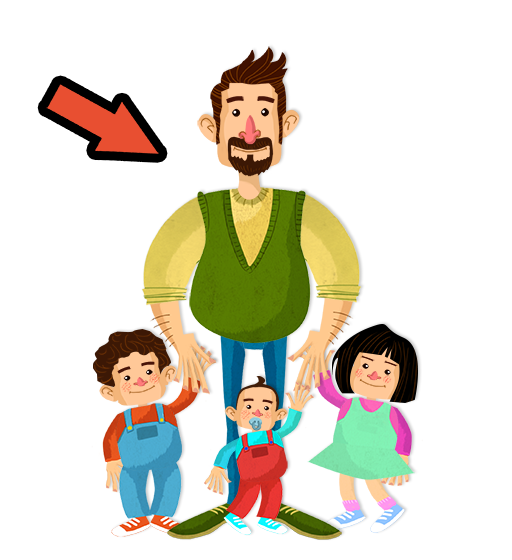
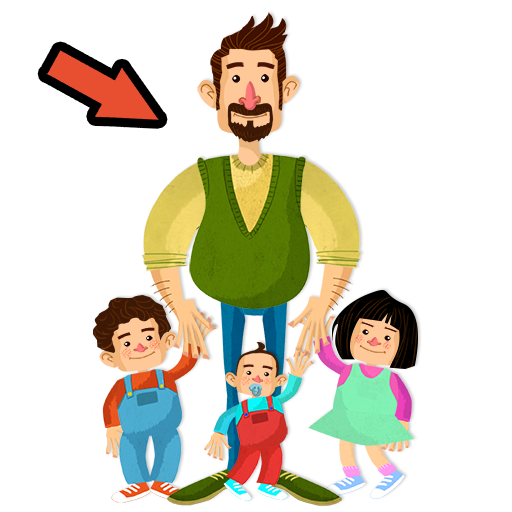
Fixed bugs. Rescaled word image art

Changed region(s): [[0.1875, 0.0312, 0.8125, 1.0], [0.0625, 0.0625, 0.3438, 0.3125], [0.6562, 0.6875, 0.6875, 0.75]]

diff --git a/Assets/__behaviours/GameMenu/PlusGameMenuCoordinator.cs b/Assets/__behaviours/GameMenu/PlusGameMenuCoordinator.cs
@@ -34,6 +34,9 @@ public class PlusGameMenuCoordinator : Singleton<PlusGameMenuCoordinator>
     [SerializeField]
     private SpriteAnim[] m_pipAnims;
 
+    string m_mathsProgrammeName = "Maths2";
+    string m_readingProgrammeName = "Reading2";
+
     ColorInfo.PipColor[] m_colorBands = new ColorInfo.PipColor[] { ColorInfo.PipColor.Turquoise, ColorInfo.PipColor.Purple, ColorInfo.PipColor.Gold, ColorInfo.PipColor.White};
 
     string m_gameName;
@@ -58,7 +61,7 @@ public class PlusGameMenuCoordinator : Singleton<PlusGameMenuCoordinator>
 
     IEnumerator Start()
     {
-        GameManager.Instance.SetProgramme("Plus");
+        GameManager.Instance.SetProgramme(m_readingProgrammeName);
 
         if (m_bookmark == Bookmark.Maths)
         {
@@ -160,14 +163,22 @@ public class PlusGameMenuCoordinator : Singleton<PlusGameMenuCoordinator>
         m_readingParent.localPosition = localPos;
 
         Transform target = goToMaths ? m_mathsParent : m_readingParent;
-        //iTween.MoveTo(m_camera, target.position, m_cameraTweenDuration);
+
+        string programmeName = goToMaths ? m_mathsProgrammeName : m_readingProgrammeName;
+        GameManager.Instance.SetProgramme(programmeName);
+
         StartCoroutine(TweenCamera(target.position));
     }
 
     void OnClickSwitchButton(EventRelay relay)
     {
-        Transform target = Mathf.Approximately(m_camera.transform.position.x, m_readingParent.transform.position.x) ? m_mathsParent : m_readingParent;
-        //iTween.MoveTo(m_camera, target.position, m_cameraTweenDuration);
+        bool goToMaths = Mathf.Approximately(m_camera.transform.position.x, m_readingParent.transform.position.x);
+
+        Transform target = goToMaths ? m_mathsParent : m_readingParent;
+
+        string programmeName = goToMaths ? m_mathsProgrammeName : m_readingProgrammeName;
+        GameManager.Instance.SetProgramme(programmeName);
+
         StartCoroutine(TweenCamera(target.position));
     }
 
@@ -263,6 +274,8 @@ public class PlusGameMenuCoordinator : Singleton<PlusGameMenuCoordinator>
         else
         {
             int moduleId = DataHelpers.GetModuleId(m_pipColor);
+
+            D.Log("moduleId: " + moduleId);
             
             GameManager.Instance.AddData("phonemes", DataHelpers.GetModulePhonemes(moduleId));
             GameManager.Instance.AddData("words", DataHelpers.GetModuleWords(moduleId));
@@ -270,7 +283,7 @@ public class PlusGameMenuCoordinator : Singleton<PlusGameMenuCoordinator>
             GameManager.Instance.AddData("sillywords", DataHelpers.GetModuleSillywords(moduleId));
             
             DataTable dt = GameDataBridge.Instance.GetDatabase().ExecuteQuery("select * from datasentences WHERE programmodule_id=" + moduleId);
-            GameManager.Instance.AddData("correctcaptions", dt.Rows.FindAll(x => x ["correctsentence"] != null && x ["correctsentence"].ToString() == "t"));
+            //GameManager.Instance.AddData("correctcaptions", dt.Rows.FindAll(x => x ["correctsentence"] != null && x ["correctsentence"].ToString() == "t"));
             GameManager.Instance.AddData("quizquestions", dt.Rows.FindAll(x => x ["quiz"] != null && x ["quiz"].ToString() == "t"));
         }
         

diff --git a/Assets/__behaviours/CorrectCaption/CorrectWordPlayer.cs b/Assets/__behaviours/CorrectCaption/CorrectWordPlayer.cs
@@ -74,16 +74,16 @@ public class CorrectWordPlayer : PlusGamePlayer
         // Add answer strings
         answerStrings.Add(m_currentData["word"].ToString());
 
-        string dummy1 = m_currentData [CorrectWordCoordinator.Instance.GetDummyAttribute1()].ToString();
-        if (!string.IsNullOrEmpty(dummy1))
+        if (m_currentData [CorrectWordCoordinator.Instance.GetDummyAttribute1()] != null)
         {
-            answerStrings.Add(dummy1);
+            //D.Log("dummy1: " + m_currentData [CorrectWordCoordinator.Instance.GetDummyAttribute1()].ToString());
+            answerStrings.Add(m_currentData [CorrectWordCoordinator.Instance.GetDummyAttribute1()].ToString());
         }
 
-        string dummy2 = m_currentData [CorrectWordCoordinator.Instance.GetDummyAttribute2()].ToString();
-        if (!string.IsNullOrEmpty(dummy2))
+        if (m_currentData [CorrectWordCoordinator.Instance.GetDummyAttribute2()] != null)
         {
-            answerStrings.Add(dummy2);
+            //D.Log("dummy2: " + m_currentData [CorrectWordCoordinator.Instance.GetDummyAttribute2()].ToString());
+            answerStrings.Add(m_currentData [CorrectWordCoordinator.Instance.GetDummyAttribute2()].ToString());
         }
         
         CollectionHelpers.Shuffle(answerStrings);

diff --git a/Assets/__behaviours/Helpers/DataHelpers.cs b/Assets/__behaviours/Helpers/DataHelpers.cs
@@ -198,6 +198,16 @@ public static class DataHelpers
                     {
                         tex = Resources.Load<Texture2D>("Images/storypages/" + data["correct_image_name"].ToString());
                     }
+
+                    if(tex == null)
+                    {
+                        tex = Resources.Load<Texture2D>("Images/word_images_png_350/" + data["correct_image_name"].ToString());
+                    }
+
+                    if(tex == null)
+                    {
+                        tex = Resources.Load<Texture2D>("Images/mnemonics_images_png_250/" + data["correct_image_name"].ToString());
+                    }
                 }
                 break;
             case "shapes":
@@ -594,7 +604,9 @@ public static class DataHelpers
     public static List<DataRow> GetQuizQuestions()
     {
         List<DataRow> dataPool = GameManager.Instance.GetData("quizquestions");
-        
+
+        D.Log("Found " + dataPool.Count + " quiz questions");
+
         if (dataPool.Count == 0)
         {
             DataTable dt = GameDataBridge.Instance.GetDatabase().ExecuteQuery("select * from datasentences");

diff --git a/Assets/__behaviours/CorrectCaption/CorrectWordCoordinator.cs b/Assets/__behaviours/CorrectCaption/CorrectWordCoordinator.cs
@@ -23,9 +23,7 @@ public class CorrectWordCoordinator : Singleton<CorrectWordCoordinator>
 
     void RemoveIllegalData()
     {
-        D.Log("COUNT PRE PICTURE CHECK: " + m_dataPool.Count);
         m_dataPool = DataHelpers.OnlyPictureData(m_dataPool);
-        D.Log("COUNT PRE DUMMY CHECK: " + m_dataPool.Count);
         m_dataPool.RemoveAll(x => x[m_dummyAttribute1] == null && x[m_dummyAttribute2] == null);
     }
     
@@ -130,6 +128,7 @@ public class CorrectWordCoordinator : Singleton<CorrectWordCoordinator>
         if (m_dataPool.Count == 0)
         {
             m_dataPool = DataHelpers.GetWords();
+            RemoveIllegalData();
         }
 
         return data;

diff --git a/Assets/__system/InstantiateNavMenu.cs b/Assets/__system/InstantiateNavMenu.cs
@@ -26,6 +26,8 @@ public class InstantiateNavMenu : MonoBehaviour
                 prefabToInstantiate = m_mathsMenu;
                 break;
             case "Plus":
+            case "Reading2":
+            case "Maths2":
                 prefabToInstantiate = m_plusMenu;
                 break;
         }
